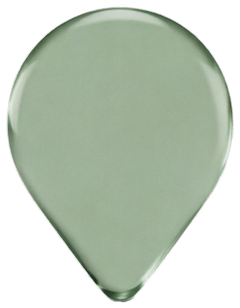
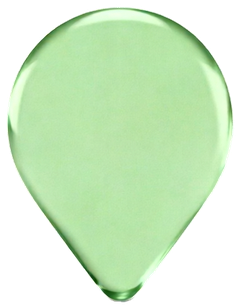
feat(search-2026): SW-7 마커 — 밝은 그린 + 흰글자
- 글라스 마커 색상 밝은 그린(Fresh)으로 — 대표님 선택
- 개수 글자 흰색 + 은은한 그림자 (밝은 마커 위 가독성)

diff --git a/src/features/search-2026/components/SearchClusterLayer.tsx b/src/features/search-2026/components/SearchClusterLayer.tsx
@@ -75,8 +75,9 @@ const STYLE_CSS = `
 .scl-count{
   position:absolute;inset:0;
   display:flex;align-items:center;justify-content:center;
-  color:#14532d;font-weight:700;letter-spacing:-.5px;
+  color:#ffffff;font-weight:700;letter-spacing:-.5px;
   font-family:-apple-system,BlinkMacSystemFont,'SF Pro Rounded','Pretendard',sans-serif;
+  text-shadow:0 1px 2px rgba(12,40,24,.55),0 0 3px rgba(12,40,24,.40);
   user-select:none;pointer-events:none;
 }
 `;